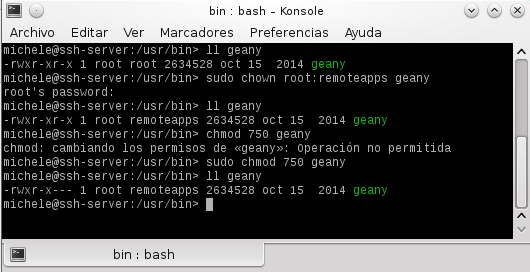
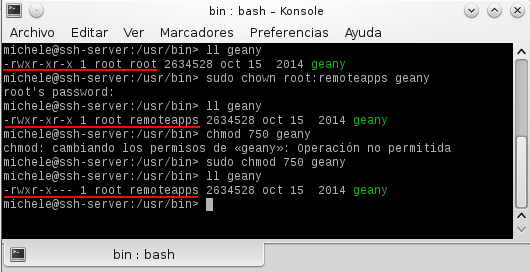
Modificacion final ssh

Changed region(s): [[0.0, 0.4412, 0.3925, 0.4706], [0.0, 0.7059, 0.3623, 0.7353], [0.0, 0.2353, 0.3019, 0.2647]]

diff --git a/trim1/u1/A5/AccesoRemoto.md b/trim1/u1/A5/AccesoRemoto.md
@@ -1,8 +1,9 @@
+
 	Michele linares D'onofrio
 	
 
 #1. Acceso remoto SSH
--
+
 
 Vamos a utilizar las siguientes máquinas virtuales:
 
@@ -11,34 +12,34 @@ Vamos a utilizar las siguientes máquinas virtuales:
 + Un cliente Windows7, con IP estática (172.18.10.13).
 
 ##1.1 Configuración de red
-Para configurar la red en OpenSUSE lvamos a utilizar la interfaz gráfica `yast`
+Para configurar la red en OpenSUSE vamos a utilizar la interfaz gráfica **yast**
 
 + En la configuración de la tarjeta de red asignamos la IP fija  para cada MV.
 
 ![](./2.png)
 
-+ En la pestaña `Nombre de Host/DNS` asignamos los datos siguientes:
++ En la pestaña *Nombre de Host/DNS* asignamos los datos siguientes:
 
 ![](./3.png)
 
-+ En la pestaña `Encaminamiento` elegimos al puerta de enlace y el dispositivo ( tarjeta de red ) asociado.
++ En la pestaña *Encaminamiento* elegimos al puerta de enlace y el dispositivo ( tarjeta de red ) asociado.
 
 ![](./4.png)
 
 
 
 #2. Preparativos
--
+
 ##2.1 Servidor SSH
 
 * Configurar el servidor OpenSuse con siguientes valores:
-    * Nombre de usuario: Michele
-    * Nombre de equipo: ssh-server
-    * Nombre de dominio: donofrio
+    * Nombre de usuario: **Michele**
+    * Nombre de equipo: **ssh-server**
+    * Nombre de dominio: **donofrio**
     
     ![](./1.png)
     
-+ Añadir en /etc/hosts los equipos ssh-client1 y ssh-client2-10.
++ Añadir en `/etc/hosts` los equipos **ssh-client1** y **ssh-client2-10**.
 
 	![](./10.png)
 	
@@ -46,28 +47,28 @@ Para configurar la red en OpenSUSE lvamos a utilizar la interfaz gráfica `yast`
 
 	![](./12.png)
 
-* Creamos 4 usuarios `Linares` en ssh-server:
+* Creamos 4 usuarios **Linares** en **ssh-server**:
     
     ![](./6.png)
 
 ##2.2 Cliente OpenSuse
-* Configuramos el cliente1 con:
+* Configuramos el **cliente1** con:
 	*  IP estática 
-    * Nombre de usuario: michele
-    * Clave del usuario root: DNI-del-alumno
-    * Nombre de equipo: ssh-client1
-    * Nombre de dominio: donofrio
+    * Nombre de usuario: **michele**
+    * Clave del usuario root: **DNI-del-alumno**
+    * Nombre de equipo: **ssh-client1**
+    * Nombre de dominio: **donofrio**
 
     ![](./7.png) 
     
     ![](./1.png)
     
-* Añadir en /etc/hosts el equipo ssh-server, y ssh-client2-10.
+* Añadir en '/etc/hosts' el equipo **ssh-server**, y **ssh-client2-10**.
 
 	![](./8.png)
 
 * Comprobar haciendo ping a ambos equipos. 
-* 
+
 	![](./11.png)
 
 ##2.3 Cliente Windows
@@ -81,14 +82,14 @@ Para configurar la red en OpenSUSE lvamos a utilizar la interfaz gráfica `yast`
 	![](./16.png)
 
 * Configurar el cliente2 Windows con los siguientes valores:
-    * Nombre de usuario: michele
-    * Clave del usuario administrador: DNI-del-alumno
-    * Nombre de equipo: ssh-client2-10
+    * Nombre de usuario: **michele**
+    * Clave del usuario administrador: **DNI-del-alumno**
+    * Nombre de equipo: **ssh-client2-10**
     * IP estática
     
     ![](./9.png)
     
-* Añadir en `C:\Windows\System32\drivers\etc\hosts` el equipo ssh-server y ssh-client1.
+* Añadir en `C:\Windows\System32\drivers\etc\hosts` el equipo **ssh-server** y **ssh-client1**.
 
 ![](./13.png)
 
@@ -98,7 +99,7 @@ Para configurar la red en OpenSUSE lvamos a utilizar la interfaz gráfica `yast`
 
 #3 Instalación del servicio SSH
 
-* Instalamos el servicio SSH en la máquina ssh-server desde terminal `zypper install openssh`.
+* Instalamos el servicio SSH en la máquina **ssh-server** desde terminal `zypper install openssh`.
 
 ![](./17.png)
 
@@ -125,7 +126,7 @@ Para configurar la red en OpenSUSE lvamos a utilizar la interfaz gráfica `yast`
 ![](./24.png)
 
 
-* Comprobamos el contenido del fichero `$HOME/.ssh/known_hosts` en el equipo ssh-client1 que muestra la clave.
+* Comprobamos el contenido del fichero `$HOME/.ssh/known_hosts` en el equipo **ssh-client1** que muestra la clave.
 
 ![](./25.png)
 
@@ -150,11 +151,11 @@ servidor.
 
 ![](./21.png)
 
-* Comprobamos qué sucede al volver a conectarnos desde los dos clientes, usando los usuarios linares2 y linares1.
+* Comprobamos qué sucede al volver a conectarnos desde los dos clientes, usando los usuarios **linares2** y **linares1**.
 
 ![](./27.png)
 
-Vemos que las claves han cambiado por lo qu no tenemos acceso y no podemos conectarnos mediante ssh.
+Vemos que las claves han cambiado por lo que no tenemos acceso y no podemos conectarnos mediante ssh.
 
 #4. Personalización del prompt Bash
 
@@ -189,27 +190,32 @@ alias s='ssh'
 
 #5. Autenticación mediante claves públicas
 
-Vamos a acceder desde el cliente1, para que el usuario `linares4` entre sin poner password, pero usando claves pública/privada.
+Vamos a acceder desde el **cliente1**, para que el usuario **linares4** entre sin poner password, pero usando claves pública/privada.
 
-Para ello desde la máquina *ssh-client1* realizamos estos pasos:
+Para ello desde la máquina **ssh-client1** realizamos estos pasos:
 
 * Ejecutamos `ssh-keygen -t rsa` para generar un nuevo par de claves.
 
 ![](./40.png)
 
-* Ahora vamos a copiar la clave pública (id_rsa.pub) del usuario (michele) de la máquina cliente, al fichero "authorized_keys" del usuario *linares4* en el servidor, con el comando `ssh-copy-id linares4@ssh-server`
+* Ahora vamos a copiar la clave pública (id_rsa.pub) del usuario (michele) de la máquina cliente, al fichero "authorized_keys" del usuario **linares4** en el servidor, con el comando `ssh-copy-id linares4@ssh-server`
     
     ![](./41.png)
     
-* Comprobar que ahora podremos acceder remotamente, sin escribir el password desde el cliente1.
-* Comprobar que al acceder desde cliente2, si nos pide el password.
+* Comprobar que ahora podremos acceder remotamente, sin escribir el password desde el **cliente1**.
 
 ![](./42.png)
+
+* Comprobar que al acceder desde **cliente2**, si nos pide el password.
+
+![](./95.png)
+![](./96.png)
+
 
 #6. Uso de SSH como túnel para X
 
 
-* Instalar en el servidor una aplicación de entorno gráfico que no esté en los clientes. Por ejemplo Geany. 
+* Instalar en el servidor una aplicación de entorno gráfico que no esté en los clientes. Por ejemplo *Geany*. 
 
 ![](./5.png)
 
@@ -219,23 +225,23 @@ Consultar fichero de configuración `/etc/ssh/sshd_config` (Opción `X11Forwardi
 
 ![](./52.png)
 
-* Comprobar funcionamiento de Geany desde cliente1.
-Por ejemplo, con el comando `ssh -X linares1@ssh-server`, podemos conectarnos de forma remota al servidor, y ahora ejecutamos Geany de forma remota.
+* Comprobar funcionamiento de *Geany* desde **cliente1**.
+Por ejemplo, con el comando `ssh -X linares1@ssh-server`, podemos conectarnos de forma remota al servidor, y ahora ejecutamos *Geany* de forma remota.
 
 ![](./53.png)
 
 #7. Aplicaciones Windows nativas
 
-Podemos tener aplicaciones Windows nativas instaladas en ssh-server mediante el emulador WINE.
-* Instalar emulador Wine en el ssh-server.
+Podemos tener aplicaciones Windows nativas instaladas en **ssh-server** mediante el emulador *WINE*.
+* Instalar emulador *Wine* en el **ssh-server**.
 
 ![](./61.png)
 
-* Probamos a ejecutar el Bloc de Notas con Wine: wine notepad.
+* Probamos a ejecutar el Bloc de Notas con *Wine*: *wine notepad*.
 
 ![](./63.png)
 
-* Comprobamos el funcionamiento, accediendo desde ssh-client1.
+* Comprobamos el funcionamiento, accediendo desde **ssh-client1**.
 
 ![](./64.png)
 
@@ -246,13 +252,13 @@ Vamos a modificar los usuarios del servidor SSH para añadir algunas restriccion
 ##8.1 Sin restricción (tipo 1)
 Usuario sin restricciones:
 
-* El usuario linares1, podrá conectarse vía SSH sin restricciones.
+* El usuario **linares1**, podrá conectarse vía SSH sin restricciones.
 
 
 ##8.2 Restricción total (tipo 2)
 Vamos a crear una restricción de uso del SSH para un usuario:
 
-* Modificamos el fichero de configuración del servidor SSH (`/etc/ssh/sshd_config`) para restringir el acceso a *linares2*. 
+* Modificamos el fichero de configuración del servidor SSH (`/etc/ssh/sshd_config`) para restringir el acceso a **linares2**. 
 
 ![](./71.png)
 
@@ -261,10 +267,9 @@ Vamos a crear una restricción de uso del SSH para un usuario:
 ![](./72.png)
 
 ##8.3 Restricción en las máquinas (tipo 3)
-Vamos a crear una restricción para que sólo las máquinas clientes con las IP's 
-autorizadas puedan acceder a nuestro servidor.
+Vamos a crear una restricción para que sólo las máquinas clientes con las IP's autorizadas puedan acceder a nuestro servidor.
 
-* Denegamos a todos (ALL) en los ficheros de configuración /etc/hosts.deny.
+* Denegamos a todos (ALL) en los ficheros de configuración `/etc/hosts.deny`.
 
 ![](./73.png)
 
@@ -279,12 +284,12 @@ autorizadas puedan acceder a nuestro servidor.
 ##8.4 Restricción sobre aplicaciones (tipo 4)
 Vamos a crear una restricción de permisos sobre determinadas aplicaciones.
 
-* Usaremos el usuario linares4
-* Crear grupo remoteapps e incluir al usuario en el grupo.
+* Usaremos el usuario **linares4**
+* Crear grupo **remoteapps** e incluir al usuario en el grupo.
 
 ![](./77.png)
 
-* Poner al programa APP1 el grupo propietario a remoteapps y los permisos 750.
+* Poner al programa *Geany* el grupo propietario a **remoteapps** y los permisos 750.
 
 ![](./78.png)
 
@@ -294,11 +299,11 @@ Vamos a crear una restricción de permisos sobre determinadas aplicaciones.
 
 * Comprobamos el funcionamiento desde el cliente.
 
-Con *linares4* lo ejecutamos sin problemas
+Con **linares4** lo ejecutamos sin problemas
 
 ![](./80.png)
 
-Pero con *linares1* no podemos.
+Pero con **linares1** no podemos.
 
 ![](./81.png)
 
